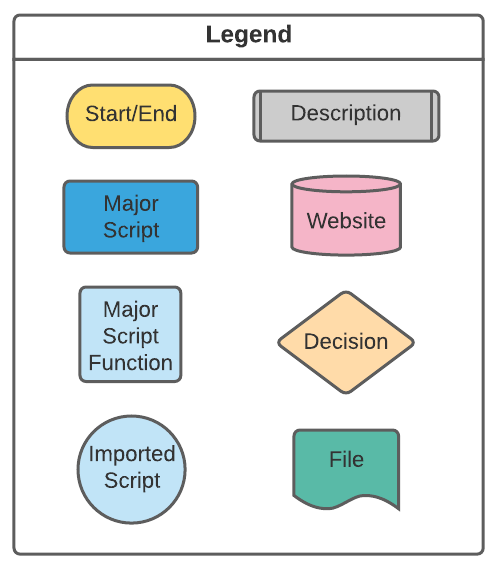
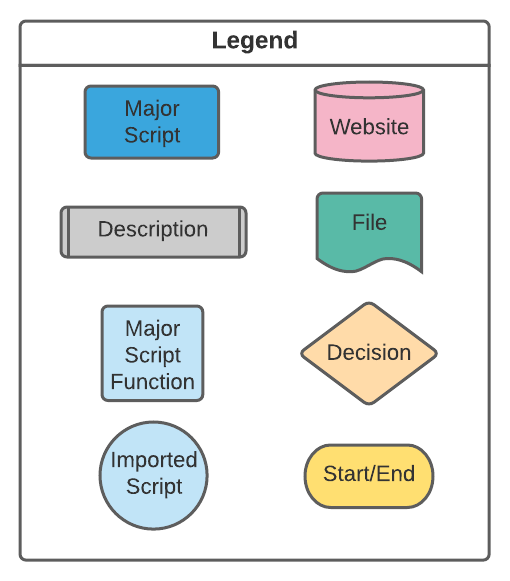
image edits to README

diff --git a/README.md b/README.md
@@ -27,14 +27,14 @@ The `valuation_tool.py` script constructs a DCF model for one or multiple specif
 The data is exported to `DCF_valuations.xlxs', which is a formatted Excel file with one stock and DCF model per worksheet.
 
 ## Relationship between Python Scripts (Process Diagrams)
-### Yahoo Finance Market Data Scraper
-![Market Data Scraper](/README_images/process_diagram_script_1.png)
-### Valuation Tool
-![Valuation Tool](/README_images/process_diagram_script_2.png)
-### Legend(/README_images/legend.png)
-![Legend]
+### 1) Yahoo Finance Market Data Scraper
+<img alt="Market Data Scraper" src="/README_images/process_diagram_script_1.png" width="460"> <img alt="Legend" src="/README_images/legend.png" width="250">
+
+### 2) DCF Valuation Tool
+<img alt="Valuation Tool" src="/README_images/process_diagram_script_2.png">
+
 ## Sample Excel Output
-![Excel Output](/README_images/excel_output.png)
+<img alt="Excel Output" src="/README_images/excel_output.png">
 
 ### Output Interpretation
 The value to price ratio determines whether the model believes a stock is overpriced or undervalued (NOT financial advice).
@@ -68,7 +68,7 @@ Note that model assumptions and inputs can change and vary over the years in the
 | ---------------------------------------- | ------------- |
 | Number of high-growth years              | 5             |
 | Number of DCF years before terminal year | 10            |
-| Marginal tax rate                        | 24% (halfway between current and proposed corporate tax rate)|
+| Marginal tax rate                        | 24%           |
 | Current net operating loss carryover     | 0             |
 | Value of non-operating assets            | 0             |
 | Value of minority interests              | 0             |
